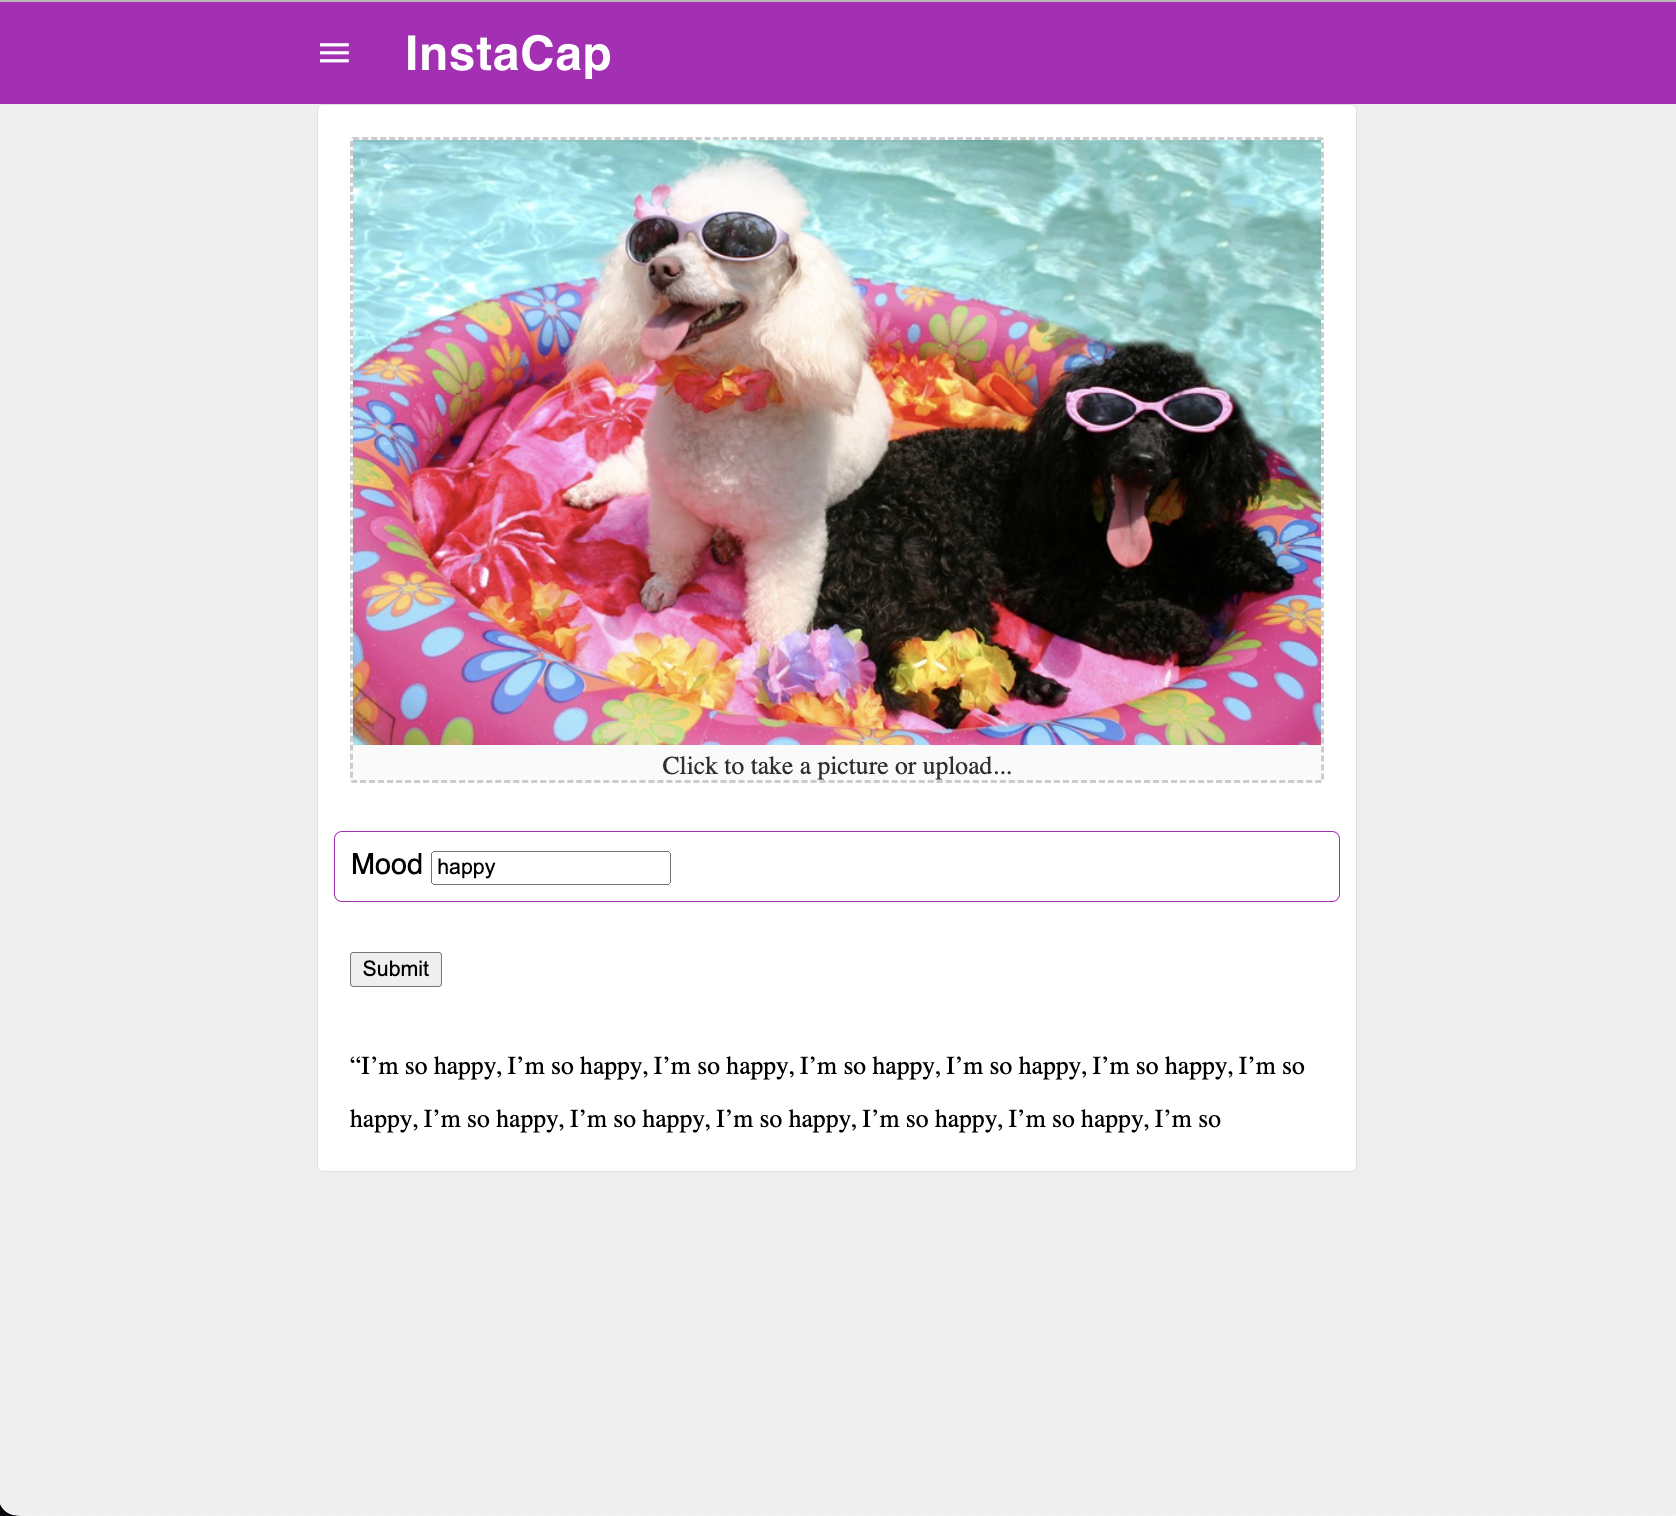
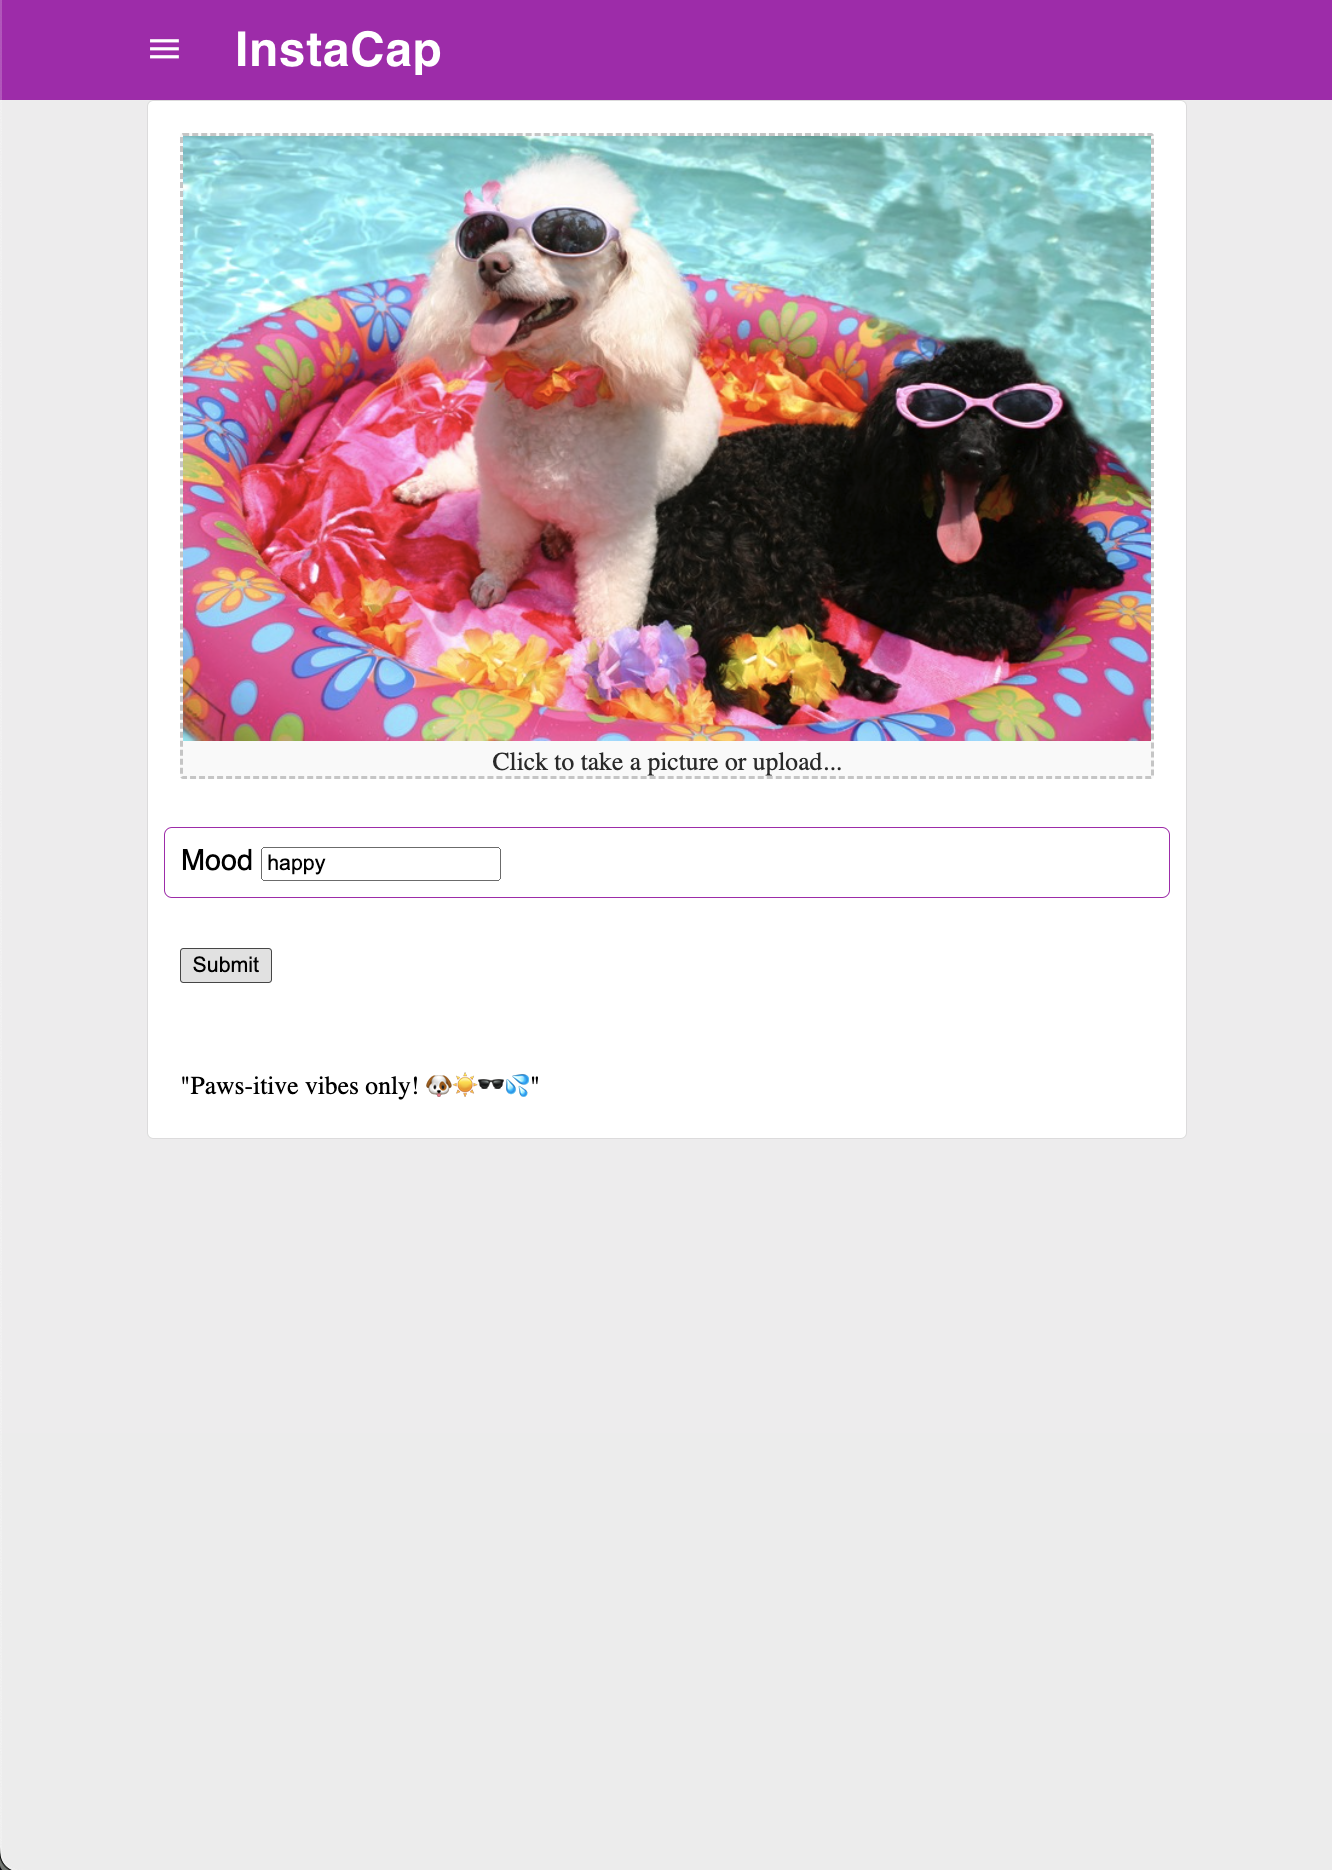
Hooked up to 7b!

diff --git a/src/api-service/api/service.py b/src/api-service/api/service.py
@@ -71,10 +71,10 @@ def prompt_llama(prompt, bearer_token, llama_base_url):
         "Authorization": "Bearer {bearer_token}".format(bearer_token=bearer_token),
         "Content-Type": "application/json"
     }
-
     # Send a POST request to the model endpoint
     resp = requests.post(llama_base_url, json=request_body, headers=headers)
     response = resp.json()
+    print(resp.json())
     return response['predictions']
 
 
@@ -96,15 +96,6 @@ app.add_middleware(
 @app.get("/")
 async def get_index():
     return {"message": "Welcome to the API "}
-
-@app.post("/square_root/")
-async def square_root(data: dict):
-    input_data = data.get("data")
-    if input_data is not None:
-        result = input_data ** 0.5
-        return {"data": result}
-    else:
-        return {"error": "Invalid input data"}
 
 @app.post("/generate_caption/")
 async def generate_caption(
@@ -142,8 +133,8 @@ async def generate_caption(
     blip_base_url = f"https://us-central1-aiplatform.googleapis.com/v1beta1/projects/{project_id}/locations/us-central1/endpoints/{blip_endpoint_id}:predict"
 
     # defining llama endpoints:
-    llama_endpoint_id = '5686665342764449792'
-    llama_base_url = f"https://us-east1-aiplatform.googleapis.com/v1beta1/projects/{project_id}/locations/us-east1/endpoints/{llama_endpoint_id}:predict"
+    llama_endpoint_id = '5438784844328861696'
+    llama_base_url = f"https://us-central1-aiplatform.googleapis.com/v1beta1/projects/{project_id}/locations/us-central1/endpoints/{llama_endpoint_id}:predict"
     if processed_image is None:
         print(f"Error processing image")
     else:
@@ -160,7 +151,7 @@ async def generate_caption(
         #     caption = llama_answers[0]
         # except:
         #     caption = llama_response[0]
-        caption = llama_response[0].split("A: ", 1)[-1]
+        caption = llama_response[0].split("A: ")[1]
         print(f'Llama IG caption: {caption}')
 
     return {"caption": caption}
